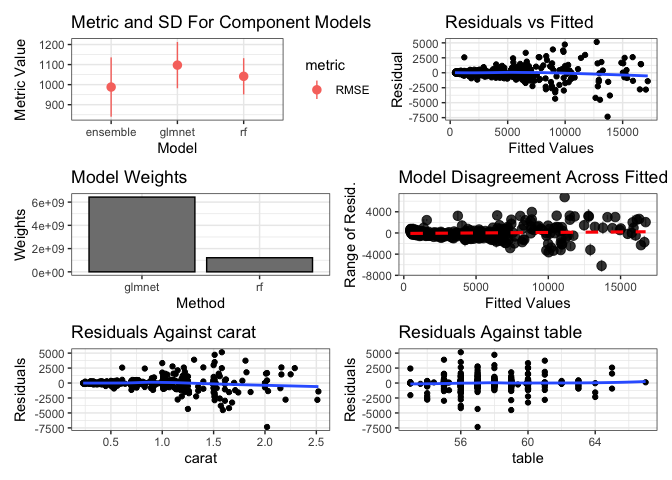
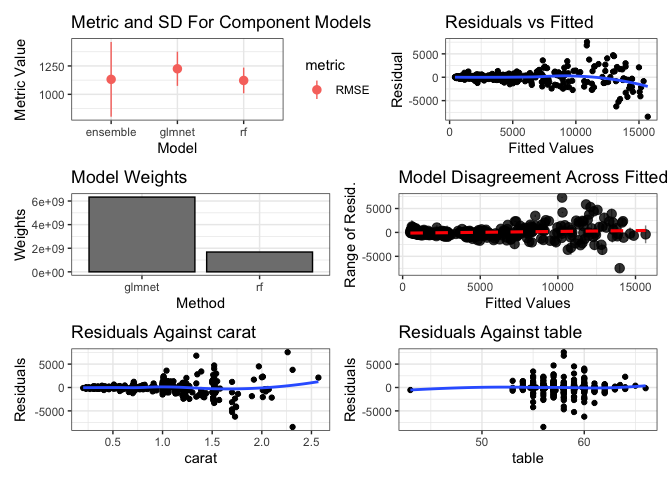
rebuild

diff --git a/README.md b/README.md
@@ -46,10 +46,10 @@ print(summary(models))
 #> The following models were ensembled: rf, glmnet  
 #> 
 #> Model accuracy:
-#>    model_name metric    value        sd
-#>        <char> <char>    <num>     <num>
-#> 1:         rf   RMSE 1041.580  90.36479
-#> 2:     glmnet   RMSE 1097.398 115.44590
+#>    model_name metric    value       sd
+#>        <char> <char>    <num>    <num>
+#> 1:         rf   RMSE 1122.243 112.8764
+#> 2:     glmnet   RMSE 1225.133 150.6002
 ```
 
 Then, use caretEnsemble to make a greedy ensemble of these models
@@ -64,21 +64,21 @@ print(greedy_stack)
 #> 
 #> No pre-processing
 #> Resampling: Cross-Validated (5 fold) 
-#> Summary of sample sizes: 400, 400, 400, 401, 399 
+#> Summary of sample sizes: 400, 400, 400, 400, 400 
 #> Resampling results:
 #> 
-#>   RMSE      Rsquared  MAE     
-#>   973.4392  0.939656  557.0054
+#>   RMSE      Rsquared   MAE     
+#>   1068.604  0.9306586  588.6735
 #> 
 #> Tuning parameter 'max_iter' was held constant at a value of 100
 #> 
 #> Final model:
 #> Greedy MSE
-#> RMSE:  991.436 
+#> RMSE:  1074.072 
 #> Weights:
 #>        [,1]
-#> rf     0.59
-#> glmnet 0.41
+#> rf     0.64
+#> glmnet 0.36
 ```
 
 You can also use caretStack to make a non-linear ensemble
@@ -94,11 +94,11 @@ print(rf_stack)
 #> 
 #> No pre-processing
 #> Resampling: Cross-Validated (5 fold) 
-#> Summary of sample sizes: 400, 402, 400, 399, 399 
+#> Summary of sample sizes: 400, 400, 400, 400, 400 
 #> Resampling results:
 #> 
 #>   RMSE      Rsquared   MAE     
-#>   988.0671  0.9381938  506.0528
+#>   1132.124  0.9200459  581.9815
 #> 
 #> Tuning parameter 'mtry' was held constant at a value of 2
 #> 
@@ -110,8 +110,8 @@ print(rf_stack)
 #>                      Number of trees: 500
 #> No. of variables tried at each split: 2
 #> 
-#>           Mean of squared residuals: 988056.2
-#>                     % Var explained: 93.6
+#>           Mean of squared residuals: 1348600
+#>                     % Var explained: 91.62
 ```
 
 Use autoplot from ggplot2 to plot ensemble diagnostics:
